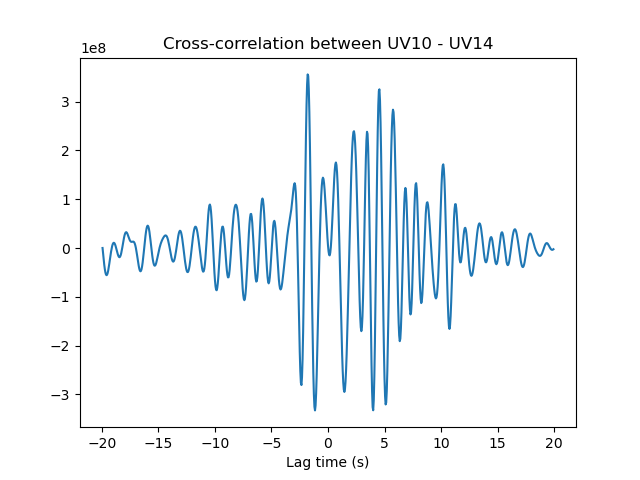
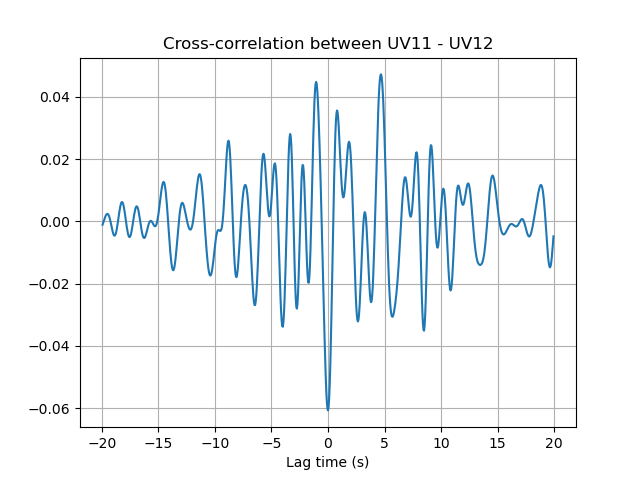
Updated methods to filter and stack (working on example C1)

diff --git a/covseisnet/correlation.py b/covseisnet/correlation.py
@@ -80,9 +80,7 @@ class PairwiseCrossCorrelation(np.ndarray):
         """
         return self.reshape(-1, self.shape[-1])
 
-    def bandpass(
-        self, frequency_band: tuple | list, filter_order: int = 4, **kwargs
-    ):
+    def bandpass(self, frequency_band: tuple | list, filter_order: int = 4):
         """Bandpass filter the correlation functions.
 
         Apply a Butterworth bandpass filter to the correlation functions. Uses
@@ -93,28 +91,44 @@ class PairwiseCrossCorrelation(np.ndarray):
         ----------
         frequency_band: tuple
             The frequency band to filter in Hz.
+        filter_order: int, optional
+            The order of the Butterworth filter.
+        """
+        # Flatten the correlation functions
+        correlation_flat = self.flat()
+
+        # Apply bandpass filter
+        correlation_filtered = bandpass_filter(
+            correlation_flat,
+            self.sampling_rate,
+            frequency_band,
+            filter_order,
+        )
+
+        # Reshape the correlation functions
+        correlation_filtered = correlation_filtered.reshape(self.shape)
+
+        # Update self array
+        self[:] = correlation_filtered
+
+    def stack(self, **kwargs):
+        """Stack the correlation functions.
+
+        Stack the correlation functions along the given axis. The correlation
+        functions are averaged along the axis. By default, the axis is 1, which
+        means that the correlation functions are averaged along the windows.
+
+        Parameters
+        ----------
         **kwargs: dict, optional
             Additional keyword arguments to pass to :func:`~
-            scipy.signal.filtfilt`.
+            numpy.ndarray.mean`.
         """
-        # Turn frequencies into normalized frequencies
-        nyquist = 0.5 * self.sampling_rate
-        normalized_frequency_band = [f / nyquist for f in frequency_band]
-
-        # Extract filter
-        butter_coefficients = butter(
-            filter_order,
-            normalized_frequency_band,
-            btype="band",
-        )
-
-        # Apply filter
-        correlation_flat = self.flat()
-        correlation_flat = filtfilt(
-            *butter_coefficients, correlation_flat, **kwargs
-        )
-        correlation_filtered = correlation_flat.reshape(self.shape)
-        return correlation_filtered.view(PairwiseCrossCorrelation)
+        # Set up default keyword arguments
+        kwargs.setdefault("axis", 1)
+        correlation = self.mean(**kwargs).view(PairwiseCrossCorrelation)
+        correlation.__dict__.update(self.__dict__)
+        return correlation
 
 
 def calculate_cross_correlation(
@@ -138,7 +152,7 @@ def calculate_cross_correlation(
     :class:`~numpy.ndarray`
         The lag time between stations.
     :class:`~covseisnet.correlation.PairwiseCrossCorrelation`
-        The correlation matrix with shape ``(n_pairs, n_windows, n_lags)``.
+        The correlations with shape ``(n_pairs, n_windows, n_lags)``.
 
     """
     # Two-sided covariance matrix
@@ -178,3 +192,42 @@ def calculate_cross_correlation(
     correlation.set_sampling_rate(sampling_rate)
 
     return lags, pairs, correlation
+
+
+def bandpass_filter(x, sampling_rate, frequency_band, filter_order=4):
+    """Bandpass filter the signal.
+
+    Apply a Butterworth bandpass filter to the signal. Uses
+    :func:`~scipy.signal.butter` and :func:`~scipy.signal.filtfilt` to
+    avoid phase shift.
+
+    Parameters
+    ----------
+    x: :class:`~numpy.ndarray`
+        The signal to filter.
+    sampling_rate: float
+        The sampling rate in Hz.
+    frequency_band: tuple
+        The frequency band to filter in Hz.
+    filter_order: int, optional
+        The order of the Butterworth filter.
+
+    Returns
+    -------
+    :class:`~numpy.ndarray`
+        The filtered signal.
+
+    """
+    # Turn frequencies into normalized frequencies
+    nyquist = 0.5 * sampling_rate
+    normalized_frequency_band = [f / nyquist for f in frequency_band]
+
+    # Extract filter
+    butter_coefficients = butter(
+        filter_order,
+        normalized_frequency_band,
+        btype="band",
+    )
+
+    # Apply filter
+    return filtfilt(*butter_coefficients, x, axis=-1)

diff --git a/examples/plot_example_c1_correlation.py b/examples/plot_example_c1_correlation.py
@@ -36,7 +36,7 @@ if not os.path.exists(filepath_waveforms):
 stream = csn.read(filepath_waveforms)
 stream = stream.select(station="UV1*")
 stream.filter("highpass", freq=0.1)
-# stream.normalize(method="smooth", smooth_length=1001)
+stream.normalize(method="smooth", smooth_length=1001)
 stream.taper(max_percentage=0.01)
 
 
@@ -57,7 +57,7 @@ stream.taper(max_percentage=0.01)
 
 # Calculate covariance matrix
 times, frequencies, covariances = csn.calculate_covariance_matrix(
-    stream, window_duration_sec=20, average=20, whiten="none"
+    stream, window_duration_sec=20, average=20, whiten="slice"
 )
 
 # Show covariance from sample window and frequency
@@ -92,17 +92,24 @@ ax[1].figure.savefig("coherence")
 # Pairwise cross-correlation
 # --------------------------
 
+# Calculate cross-correlation
 lags, pairs, cross_correlation = csn.calculate_cross_correlation(covariances)
-cross_correlation = cross_correlation.bandpass(frequency_band)
-cross_correlation = cross_correlation.mean(axis=1)
-print(cross_correlation.shape)
-i_pair = 3
+
+# Bandpass filter
+cross_correlation.bandpass(frequency_band)
+
+# Stack
+cross_correlation = cross_correlation.stack(axis=1)
+
+# Get a given pair
+i_pair = 5
 pair = pairs[i_pair]
 cross_correlation = cross_correlation[i_pair]
 
 # Plot
 fig, ax = plt.subplots()
 ax.plot(lags, cross_correlation)
+ax.grid()
 ax.set_title(f"Cross-correlation between {pair}")
 ax.set_xlabel("Lag time (s)")
 fig.savefig("cross_correlation")
